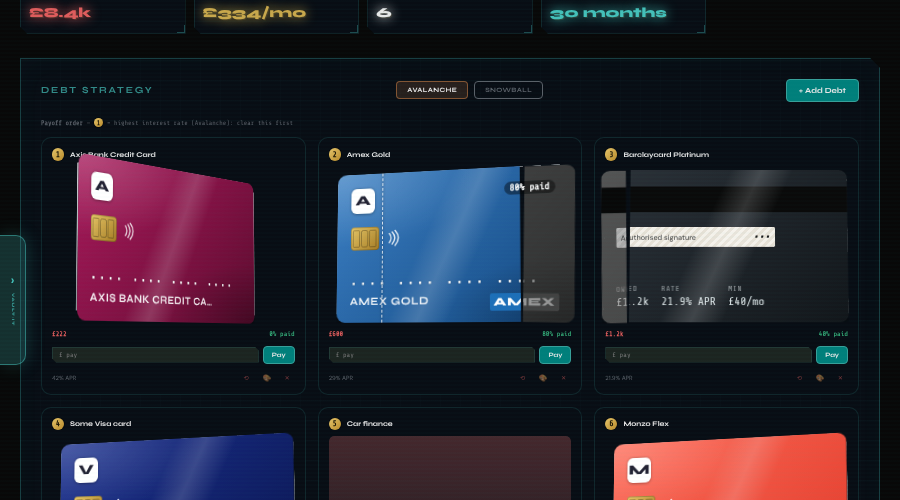
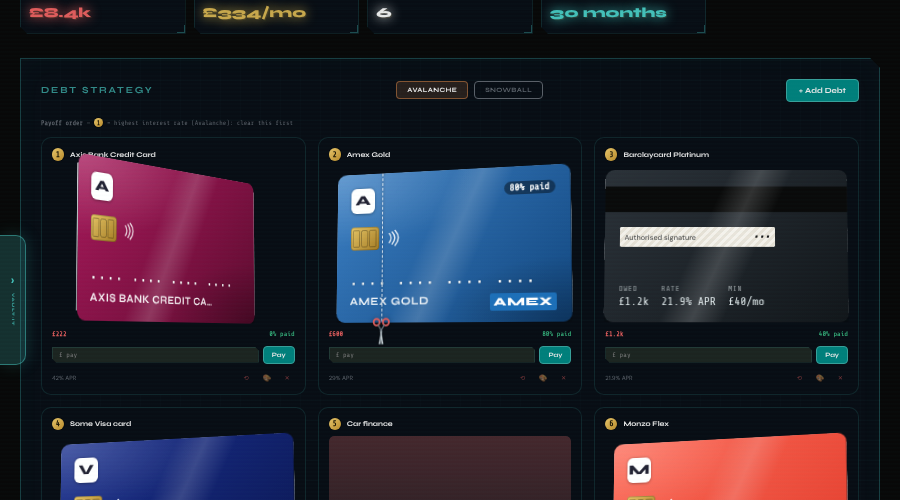
Debt cards: paid-off card turns into a ghost (translucent teal glow, PAID OFF stamp), like the House Builder ghost mode
Claude-Session: https://claude.ai/code/session_01BbEpszbFs3K1a6WMvdXZsu

Changed region(s): [[0.56, 0.33, 0.7156, 0.66], [0.4044, 0.63, 0.4356, 0.69]]

diff --git a/index.html b/index.html
@@ -772,6 +772,14 @@ body::before {
 .debt-rank.done{background:rgba(62,207,142,.25);color:#3ecf8e}
 .debt-rank.sm{font-size:.5rem;vertical-align:middle}
 .debt-rank-note{font-size:.5rem;color:var(--t3);margin:0 0 10px;font-family:'Share Tech Mono',monospace}
+
+/* paid off: the card becomes a ghost, like the House Builder's ghost build */
+.cc3-piece,.cc3-bpiece{transition:filter 2s ease,opacity 2s ease,transform 2s ease,background-color 2s ease}
+.cc3-ghost .cc3-piece,.cc3-ghost .cc3-bpiece{filter:none;opacity:.34;transform:none;background:rgba(68,192,185,.07)!important;box-shadow:inset 0 0 0 .5cqw rgba(68,192,185,.85),0 0 3.5cqw rgba(68,192,185,.5)}
+.cc3-ghost .cc3-piece>*,.cc3-ghost .cc3-bpiece>*{filter:drop-shadow(0 0 .8cqw rgba(68,192,185,.6))}
+.cc3-stamp{position:absolute;left:50%;top:50%;transform:translate(-50%,-50%) rotate(-8deg) scale(1.4);font:800 6.5cqw 'Syne',sans-serif;letter-spacing:.12em;color:#7ff0e8;border:.7cqw solid #7ff0e8;border-radius:2cqw;padding:1.2cqw 3cqw;opacity:0;text-shadow:0 0 2cqw rgba(68,192,185,.8);box-shadow:0 0 3cqw rgba(68,192,185,.5),inset 0 0 2cqw rgba(68,192,185,.3);z-index:5;pointer-events:none;transition:opacity 1.6s ease .6s,transform 1.6s cubic-bezier(.2,1.4,.3,1) .6s;white-space:nowrap}
+.cc3-ghost .cc3-stamp{opacity:.95;transform:translate(-50%,-50%) rotate(-8deg) scale(1)}
+.cc3-ghost .cc3-gloss{opacity:.4}
 .cc-tile-actions{display:flex;gap:4px}
 .debt-card-grid.has-cards{grid-template-columns:repeat(auto-fill,minmax(min(100%,230px),1fr))}
 
@@ -12290,7 +12298,8 @@ function cc3dHTML(d,pctNum,shown){
     +(P>0&&P<100?'<div class="cc3-cutline cc3-cl-old" style="left:'+(100-P)+'%"></div>':'')
     +'<div class="cc3-cutline cc3-cl-new" style="left:'+(100-P)+'%;'+(P>0&&P<100?'display:none':'display:none')+'"></div>'
     +'<div class="cc3-scis" aria-hidden="true"><svg viewBox="-12 -14 24 32"><g class="cc3-bl a"><path d="M0 0 L-2.600 15 L-.8 15.500 L1.200 0Z" fill="#dfe6ea" stroke="#6b7780" stroke-width=".5"/><circle cx="-5.500" cy="-9" r="3.600" fill="none" stroke="#e05c5c" stroke-width="2"/><path d="M-4 -6.500 L0 0" stroke="#6b7780" stroke-width="1.400"/></g><g class="cc3-bl b"><path d="M0 0 L2.600 15 L.8 15.500 L-1.200 0Z" fill="#dfe6ea" stroke="#6b7780" stroke-width=".5"/><circle cx="5.500" cy="-9" r="3.600" fill="none" stroke="#e05c5c" stroke-width="2"/><path d="M4 -6.500 L0 0" stroke="#6b7780" stroke-width="1.400"/></g><circle r="1.200" fill="#6b7780"/></svg></div>'
-    +(pctNum>0?'<div class="cc3-pct">'+pctNum+'% paid</div>':'')
+    +(pctNum>0&&pctNum<100?'<div class="cc3-pct">'+pctNum+'% paid</div>':'')
+    +'<div class="cc3-stamp">PAID OFF ✓</div>'
     +'<div class="cc3-gloss"></div></div>';
   var binner='<div class="cc3-stripe"></div><div class="cc3-sig"><span>Authorised signature</span><b>•••</b></div>'
     +'<div class="cc3-bk-info"><div><span>Owed</span><b>'+bal+'</b></div><div><span>Rate</span><b>'+apr+'</b></div><div><span>Min</span><b>'+minp+'/mo</b></div></div>'+ccNetMark(net);
@@ -12300,7 +12309,7 @@ function cc3dHTML(d,pctNum,shown){
     +'<div class="cc3-lay cc3-bpiece" style="clip-path:inset(0 '+(100-P)+'% 0 0)">'+binner+'</div>'
     +(P>0&&P<100?'<div class="cc3-cutline cc3-bcl" style="left:'+P+'%"></div>':'')
     +'<div class="cc3-gloss"></div></div>';
-  return '<div class="cc3" data-id="'+d.id+'" data-from="'+shown+'" data-to="'+pctNum+'" role="img" aria-label="'+ccEsc(d.name)+' credit card — drag to rotate, double-click to flip">'
+  return '<div class="cc3'+(P>=100?' cc3-ghost':'')+'" data-id="'+d.id+'" data-from="'+shown+'" data-to="'+pctNum+'" role="img" aria-label="'+ccEsc(d.name)+' credit card — drag to rotate, double-click to flip">'
     +'<div class="cc3-body" style="--ry:-16deg;--rx:6deg">'+f+back
     +'<div class="cc3-edge cc3-e-t"></div><div class="cc3-edge cc3-e-b"></div><div class="cc3-edge cc3-e-l"></div><div class="cc3-edge cc3-e-r"></div></div></div>';
 }
@@ -12403,11 +12412,12 @@ function ccCut(c,a,b,instant){
   if(!base||!piece)return;
   var bb=c.querySelector('.cc3-bbase'),bp=c.querySelector('.cc3-bpiece'),bcl=c.querySelector('.cc3-bcl');
   var bclip=function(P){if(bb)bb.style.clipPath='inset(0 0 0 '+P+'%)';if(bp)bp.style.clipPath='inset(0 '+(100-P)+'% 0 0)';if(bcl){bcl.style.display=(P>0&&P<100)?'':'none';bcl.style.left=P+'%';}};
-  var fin=function(){bclip(b);base.style.clipPath='inset(0 '+b+'% 0 0)';piece.style.clipPath='inset(0 0 0 '+(100-b)+'%)';
+  var fin=function(){c.classList.toggle('cc3-ghost',b>=100);bclip(b);base.style.clipPath='inset(0 '+b+'% 0 0)';piece.style.clipPath='inset(0 0 0 '+(100-b)+'%)';
     if(olds)olds.style.display='none';if(nw){nw.style.display=(b>0&&b<100)?'':'none';nw.style.left=(100-b)+'%';nw.style.opacity='1';}if(sc)sc.style.opacity='0';c.setAttribute('data-from',b);c._ccBusy=false;};
   if(instant){fin();return;}
   c._ccBusy=true;
   var T1=3200,T2=2000,ease='cubic-bezier(.45,.05,.25,1)',phase2=function(){
+    c.classList.toggle('cc3-ghost',b>=100);
     var o={duration:T2,easing:'cubic-bezier(.4,0,.2,1)',fill:'forwards'};
     base.animate([{clipPath:'inset(0 '+a+'% 0 0)'},{clipPath:'inset(0 '+b+'% 0 0)'}],o);
     var pa=piece.animate([{clipPath:'inset(0 0 0 '+(100-a)+'%)'},{clipPath:'inset(0 0 0 '+(100-b)+'%)'}],o);

diff --git a/tests/test_cut.js b/tests/test_cut.js
@@ -35,6 +35,15 @@ let fails=0; const ok=(c,m)=>{ if(!c){fails++;console.log('FAIL:',m);} else cons
   d=await page.evaluate(()=>debtState.debts.find(x=>x.id===1)); ok(d.balance===1100&&!d.payments,'undo restores £1,100 and removes the record');
   ok(/45%/.test((await clip()).cs),'cut shrinks back to 45%');
   ok(await page.locator('#debt-list-el button:has-text("Undo")').count()===0,'no undo button when nothing to undo');
+  // paying it off → ghost mode
+  await page.fill('#debt-pay-inp-2','500'); await page.evaluate(()=>makePayment(2)); await page.waitForTimeout(1000);
+  await page.locator('.cc3[data-id="2"]').screenshot({path:'shots/ghost_a.png'});
+  await page.waitForTimeout(7500);
+  const g=await page.evaluate(()=>{const c=document.querySelector('.cc3[data-id="2"]');return{cls:c.className,op:getComputedStyle(c.querySelector('.cc3-piece')).opacity,stamp:getComputedStyle(c.querySelector('.cc3-stamp')).opacity,base:getComputedStyle(c.querySelector('.cc3-base')).clipPath};});
+  console.log('ghost',JSON.stringify(g)); await page.locator('.cc3[data-id="2"]').screenshot({path:'shots/ghost_b.png'});
+  ok(/cc3-ghost/.test(g.cls)&&+g.op<0.5&&+g.stamp>0.8,'fully paid card becomes a translucent ghost with a PAID OFF stamp');
+  await page.evaluate(()=>undoPayment(2)); await page.waitForTimeout(3500);
+  ok(!/cc3-ghost/.test(await page.evaluate(()=>document.querySelector('.cc3[data-id="2"]').className)),'undo brings the card back to solid');
   ok(errs.length===0,'no page errors');
   await b.close(); console.log(fails?'FAILURES '+fails:'ALL PASSED');
 })();
